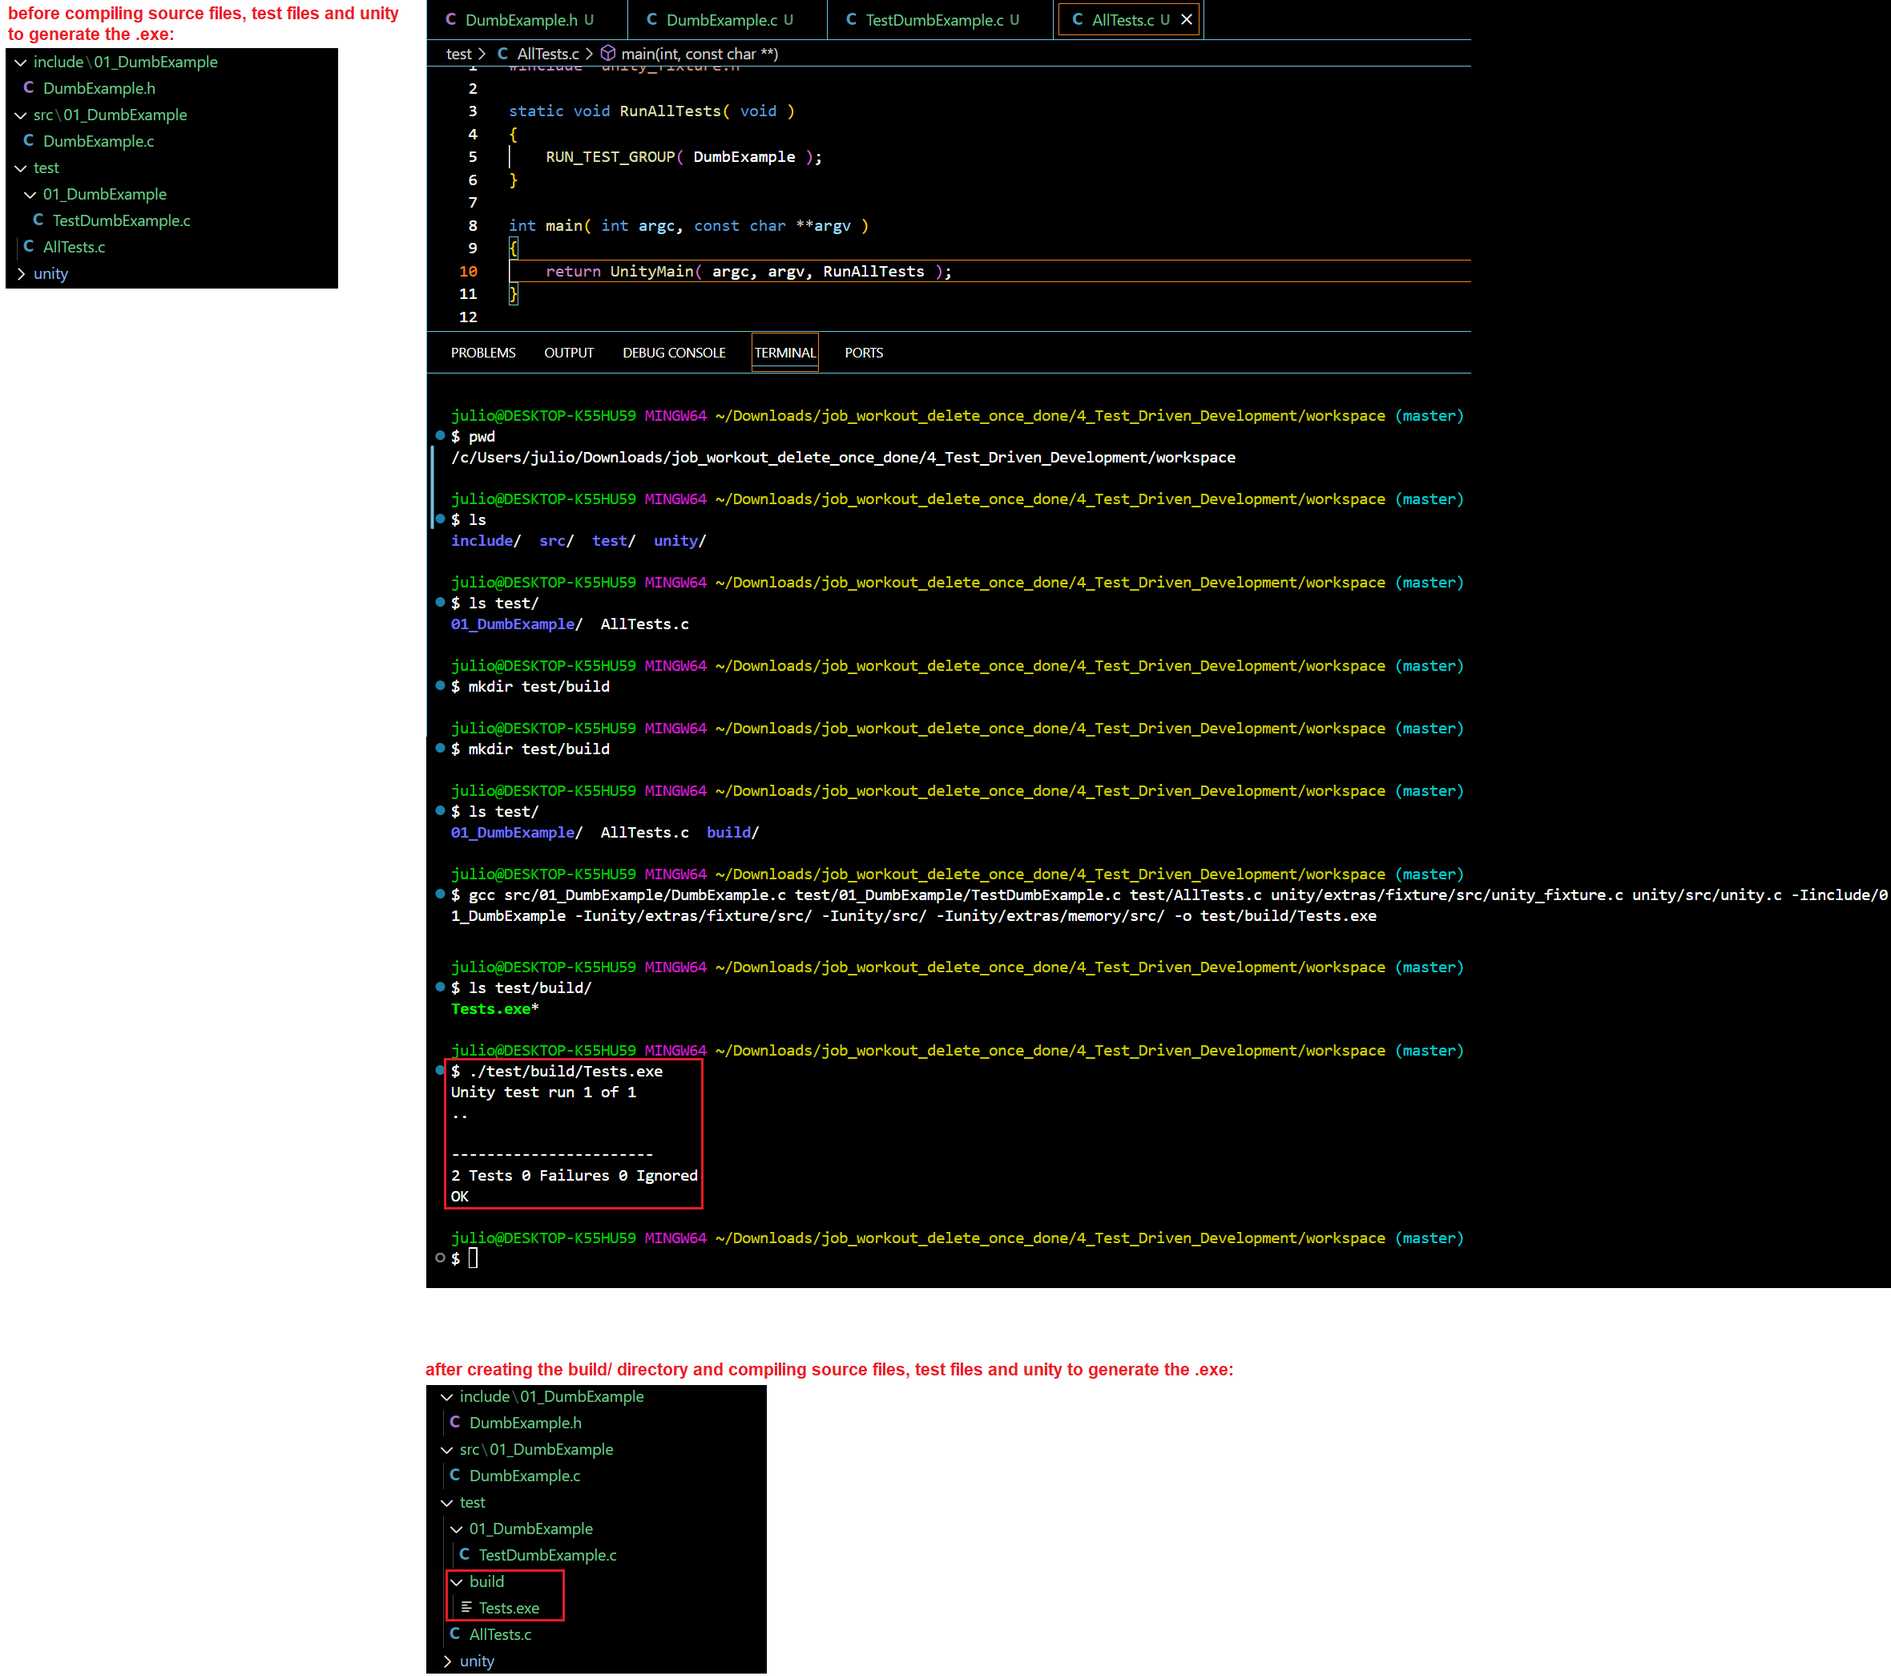
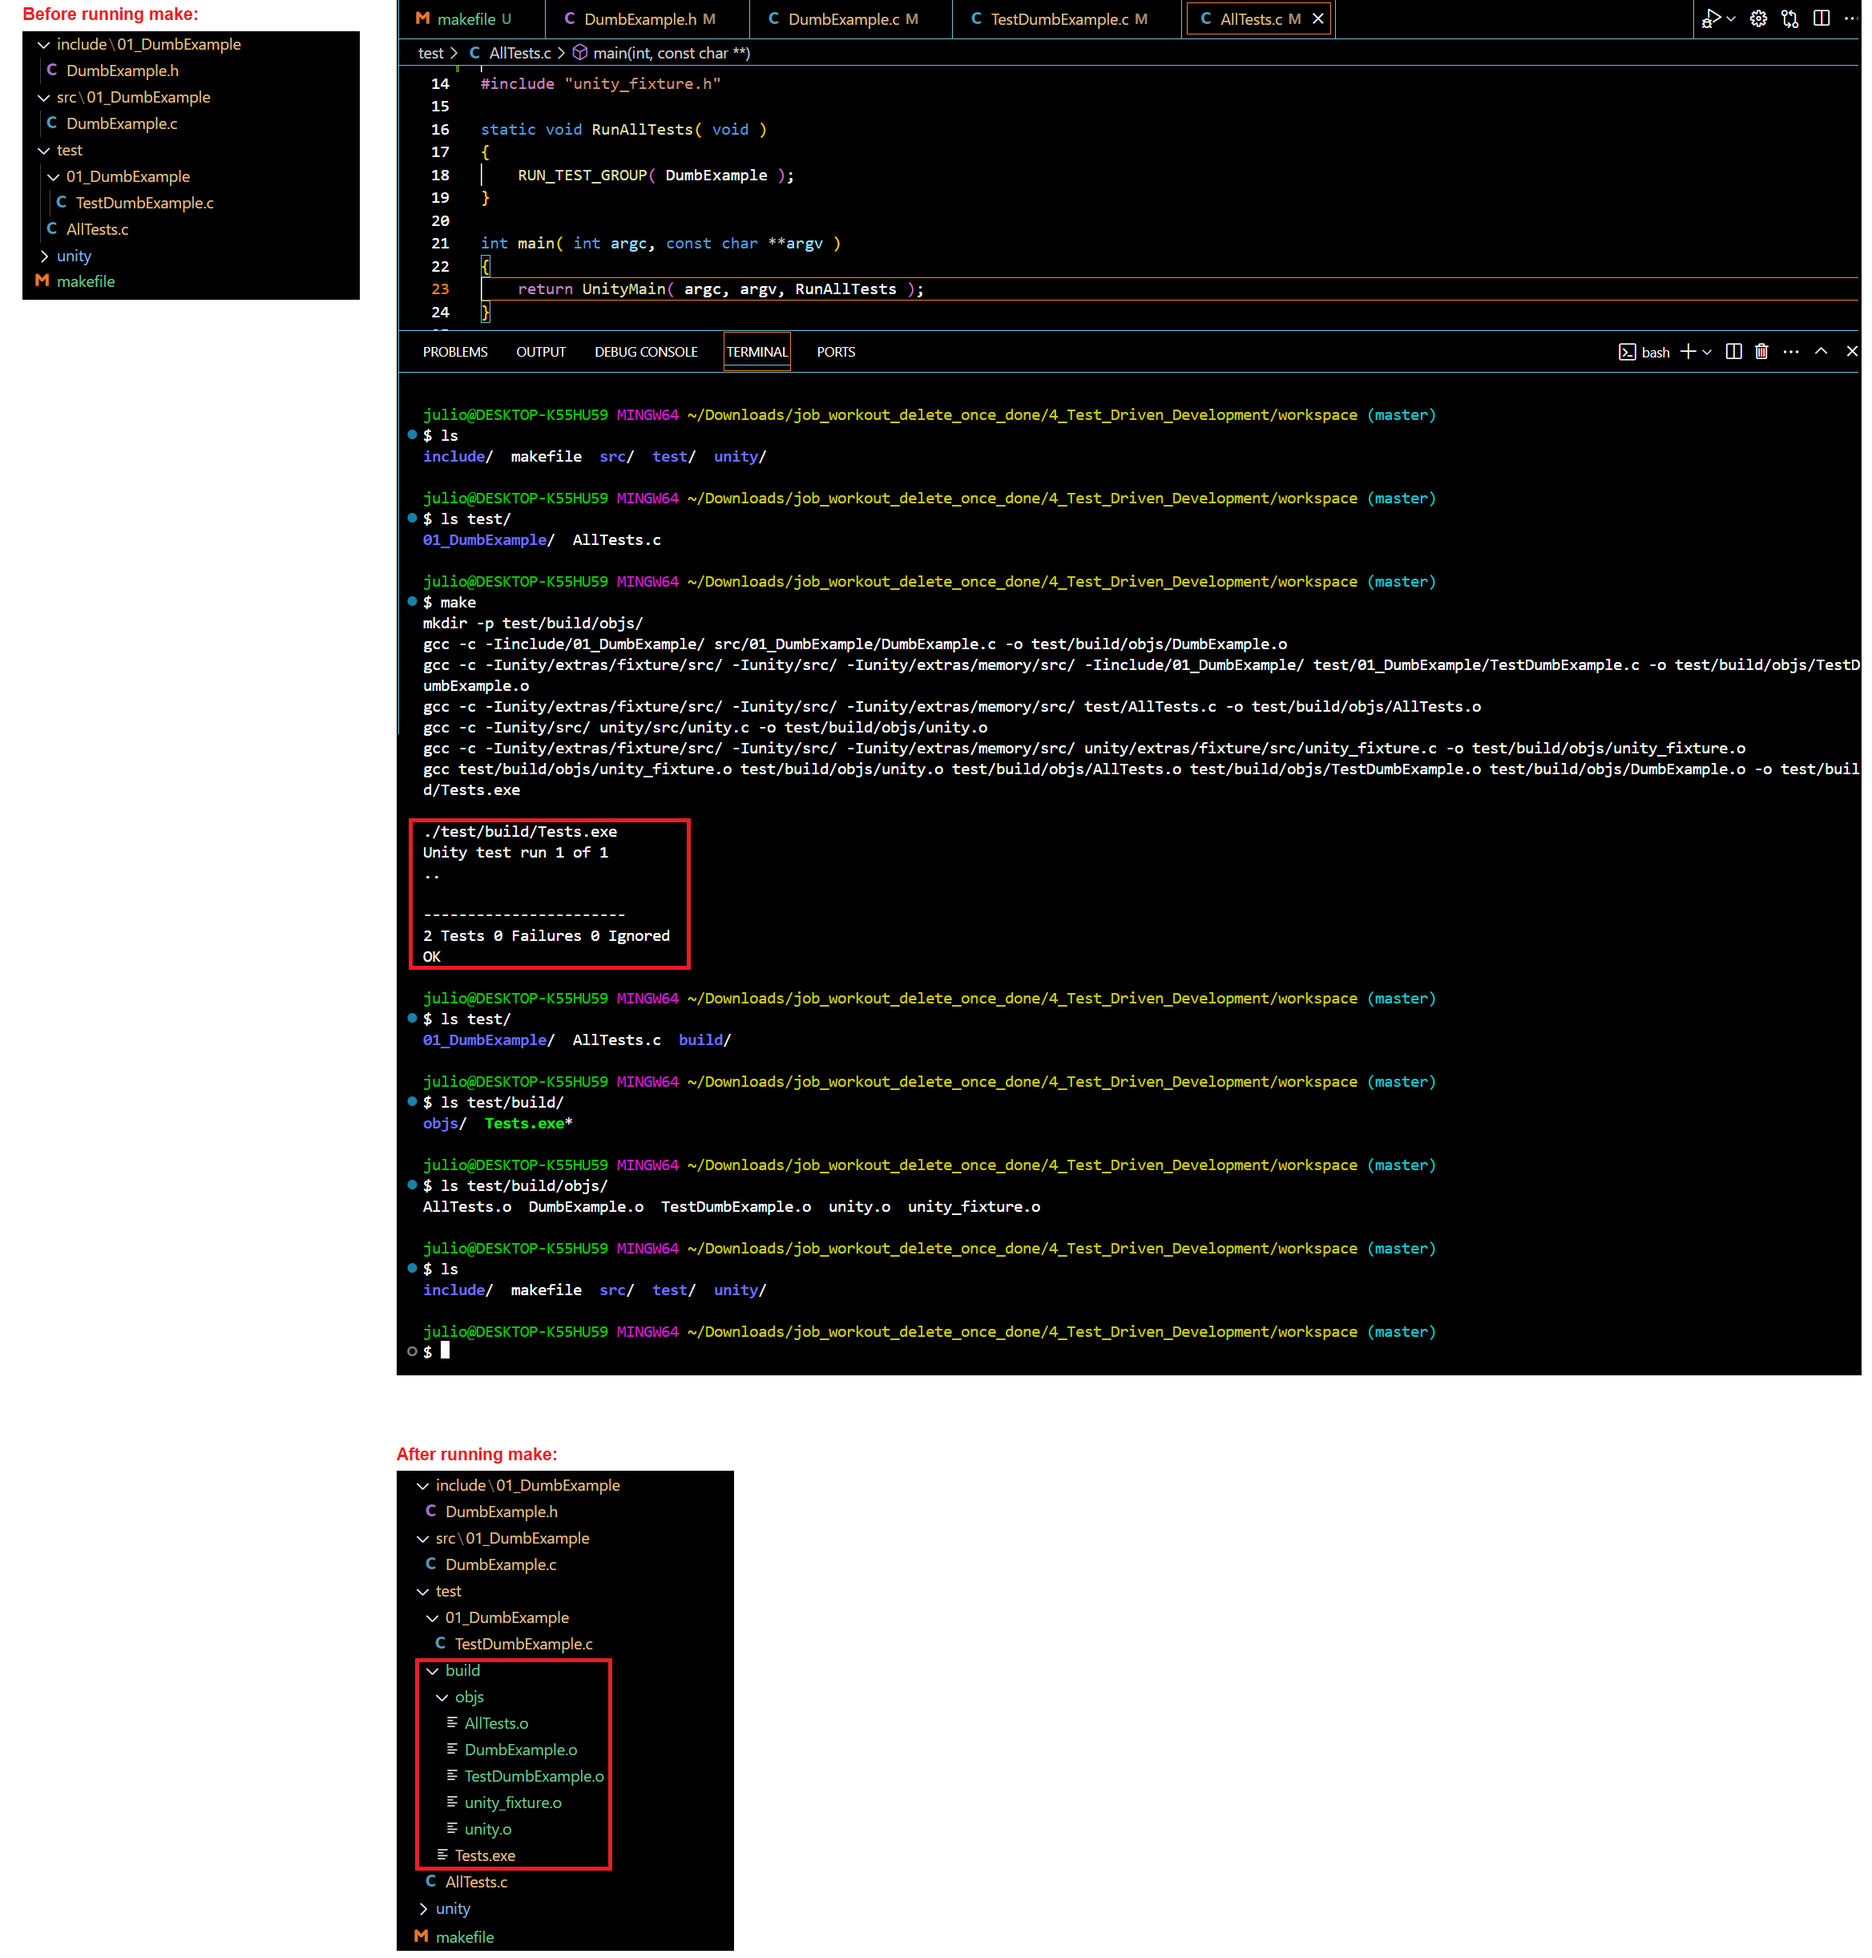
Add makefile for group testing with unity_fixture.h

Changed region(s): [[0.0, 0.0, 1.0, 1.0], [0.875, 0.5285, 0.9375, 0.5595], [0.8125, 0.3109, 0.8438, 0.3419]]

diff --git a/test/AllTests.c b/test/AllTests.c
@@ -1,3 +1,16 @@
+/**
+ * @file    AllTests.c
+ * @author  Julio Cesar Bernal Mendez
+ * @brief   Source file which contains main() and runs all the test group runners specified within RunAllTests().
+ * 
+ *          This code structure is based on the test examples provided in the "Test-Driven Development for Embedded C"
+ *          book by James W. Grenning, which use unity_fixture.h instead of the examples in https://www.throwtheswitch.org/unity
+ *          which use unity.h instead.
+ * 
+ * @version 0.1
+ * @date    2025-02-21
+ */
+
 #include "unity_fixture.h"
 
 static void RunAllTests( void )

diff --git a/test/01_DumbExample/TestDumbExample.c b/test/01_DumbExample/TestDumbExample.c
@@ -1,3 +1,15 @@
+/**
+ * @file    TestDumbExample.c
+ * @author  Julio Cesar Bernal Mendez
+ * @brief   Test dumb example source file containing the test cases and test group runner for the DumbExample module.
+ *          This code structure is based on the test examples provided in the "Test-Driven Development for Embedded C"
+ *          book by James W. Grenning, which use unity_fixture.h instead of the examples in https://www.throwtheswitch.org/unity
+ *          which use unity.h instead.
+ * 
+ * @version 0.1
+ * @date    2025-02-21
+ */
+
 #include "unity_fixture.h"
 #include "DumbExample.h"
 

diff --git a/include/01_DumbExample/DumbExample.h b/include/01_DumbExample/DumbExample.h
@@ -1,3 +1,13 @@
+/**
+ * @file    DumbExample.h
+ * @author  Julio Cesar Bernal Mendez
+ * @brief   Dumb example header file containing the prototype functions implemented by DumbExample.c.
+ *          This code is based on the one explained in https://www.throwtheswitch.org/unity
+ * 
+ * @version 0.1
+ * @date    2025-02-21
+ */
+
 #include <stdint.h>
 
 int8_t AverageThreeBytes( int8_t a, int8_t b, int8_t c );

diff --git a/src/01_DumbExample/DumbExample.c b/src/01_DumbExample/DumbExample.c
@@ -1,3 +1,13 @@
+/**
+ * @file    DumbExample.c
+ * @author  Julio Cesar Bernal Mendez
+ * @brief   Dumb example source file that implements the functions for the DumbExample module.
+ *          This code is based on the one explained in https://www.throwtheswitch.org/unity
+ * 
+ * @version 0.1
+ * @date    2025-02-21
+ */
+
 #include "DumbExample.h"
 
 int8_t AverageThreeBytes( int8_t a, int8_t b, int8_t c )
